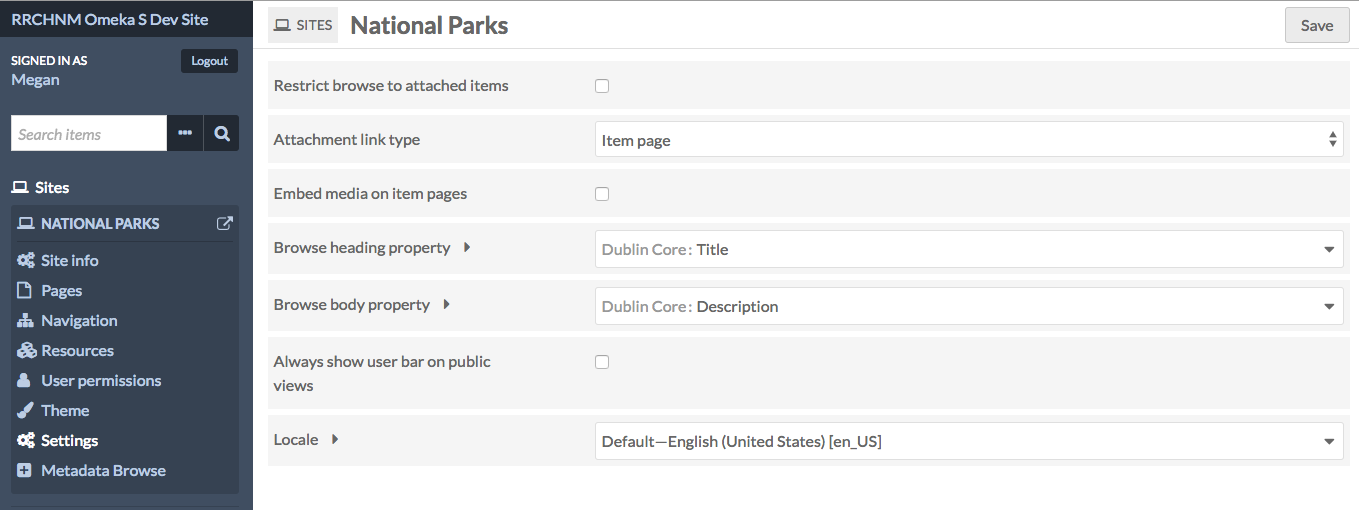
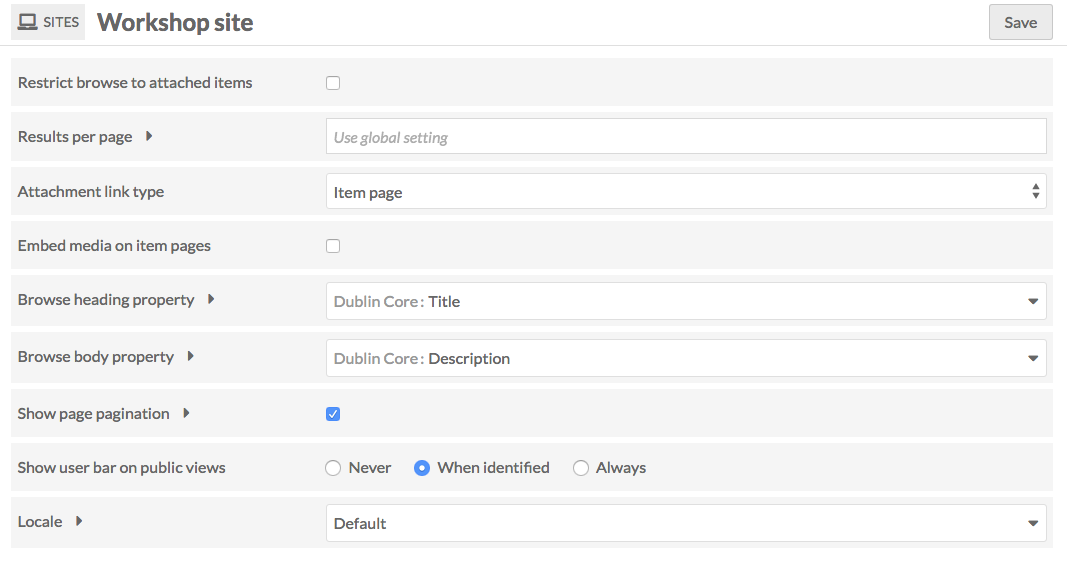
Update site settings

diff --git a/docs/sites/site_settings.md b/docs/sites/site_settings.md
@@ -8,6 +8,13 @@ This tab allows you to configure settings for the [site](../sites/index.md) over
 ## Restrict browse to attached items
 A checkbox. If checked, the Browse functions of your site will only show items which have been added to a page block. If unchecked, browse pages and blocks on your site will include all items in the Item Pool.
 
+## Results per page
+Set the number of results per page on browse pages by entering a number. If left blank, the site will use the default from the [global settings](../admin/settings).
+
+Depending on the [site theme](../sites/site_theme), you may want to make this a multiple of 4 for a more elegant display.
+
+Note that using very large numbers (50, 75, 100) may cause browse pages to load slowly.
+
 ## Attachment link type
 Sets the target of links from attachments you add to [site page blocks](../sites/site_pages.md#editing-pages) (for example, in an [item showcase](../sites/site_pages.md#item-showcase). It offers a dropdown with the following options:
 
@@ -26,20 +33,32 @@ Set which property to use as the heading for each resource on a browse page. By 
 ## Browse body property
 Set which property to use as the body text for each resource on a browse page. By default, this is Dublin Core: Description. The dropdown allows you to select from all available vocabularies, and includes a search bar to quickly find the desired property.
 
-## Always show user bar on public views
-A checkbox. When checked, the public views of the site will have a header bar which either displays navigation options (for logged-in users) or a login option (for logged-out users)
+## Show page pagination
+When checked, "Previous" and "Next" links will display at the bottom of every page in the site, proceeding through your navigation. 
 
-- When users are logged in, the user bar has the following options:
-	- Installation Title: takes you back to the installation admin
-	- Site Title: takes you back to the landing page for managing the site (site/show).
-	- User's display name: takes you to your user page.
-	- Logout: logs out current user.
+If unchecked, these links will not display.
+
+## Show user bar on public views
+Set whether there is a bar across the top of public site pages which allow users to access the admin side of the site. 
+
+When users are logged in, the user bar has the following options:
+
+- Installation Title: takes you back to the installation admin
+- Site Title: takes you back to the landing page for managing the site (site/show).
+- User's display name: takes you to your user page.
+- Logout: logs out current user.
 
 ![a blue bar across the top of the image displays the following words in light blue text, indicating a link: RRCHNM Omeka S Dev Site; A Tin Box; signed in as Megan; Logout. Below this, the site's title "A Tin Box" is displayed in black text on a white background.](../sites/sitesfiles/sites_userbarin.png)
 
-- When users are not logged, the user bar only displays a login option.
+When users are not logged, the user bar only displays a login option.
 
 ![A blue bar across the top of the image only has a small button reading "Log In". Below this, the site's title "A Tin Box" is displayed in black text on a white background.](../sites/sitesfiles/sites_userbarout.png)
+
+The options for this setting are:
+
+- Never
+- When identified (when logged in) 
+- Always
 
 ## Locale
 A dropdown menu to select the language code for this site. By default this will be set to the same as the global locale setting for the entire Omeka S installation. To change, select a language from the dropdown menu.

diff --git a/docs/content/media.md b/docs/content/media.md
@@ -1,9 +1,9 @@
 ---
 Title: Media
 ---
-Access media through the item with which is is associated. Media cannot exist independent of an associated item. 
+Media are only created by adding them to an Item. Media cannot exist independently. 
 
-To view the metadata for media, click on the media’s name in the  right-hand sidebar on the item view page. 
+To view the metadata for media, click on the media’s name in the  right-hand sidebar on the item view page.
 
 ## Add Media
 
